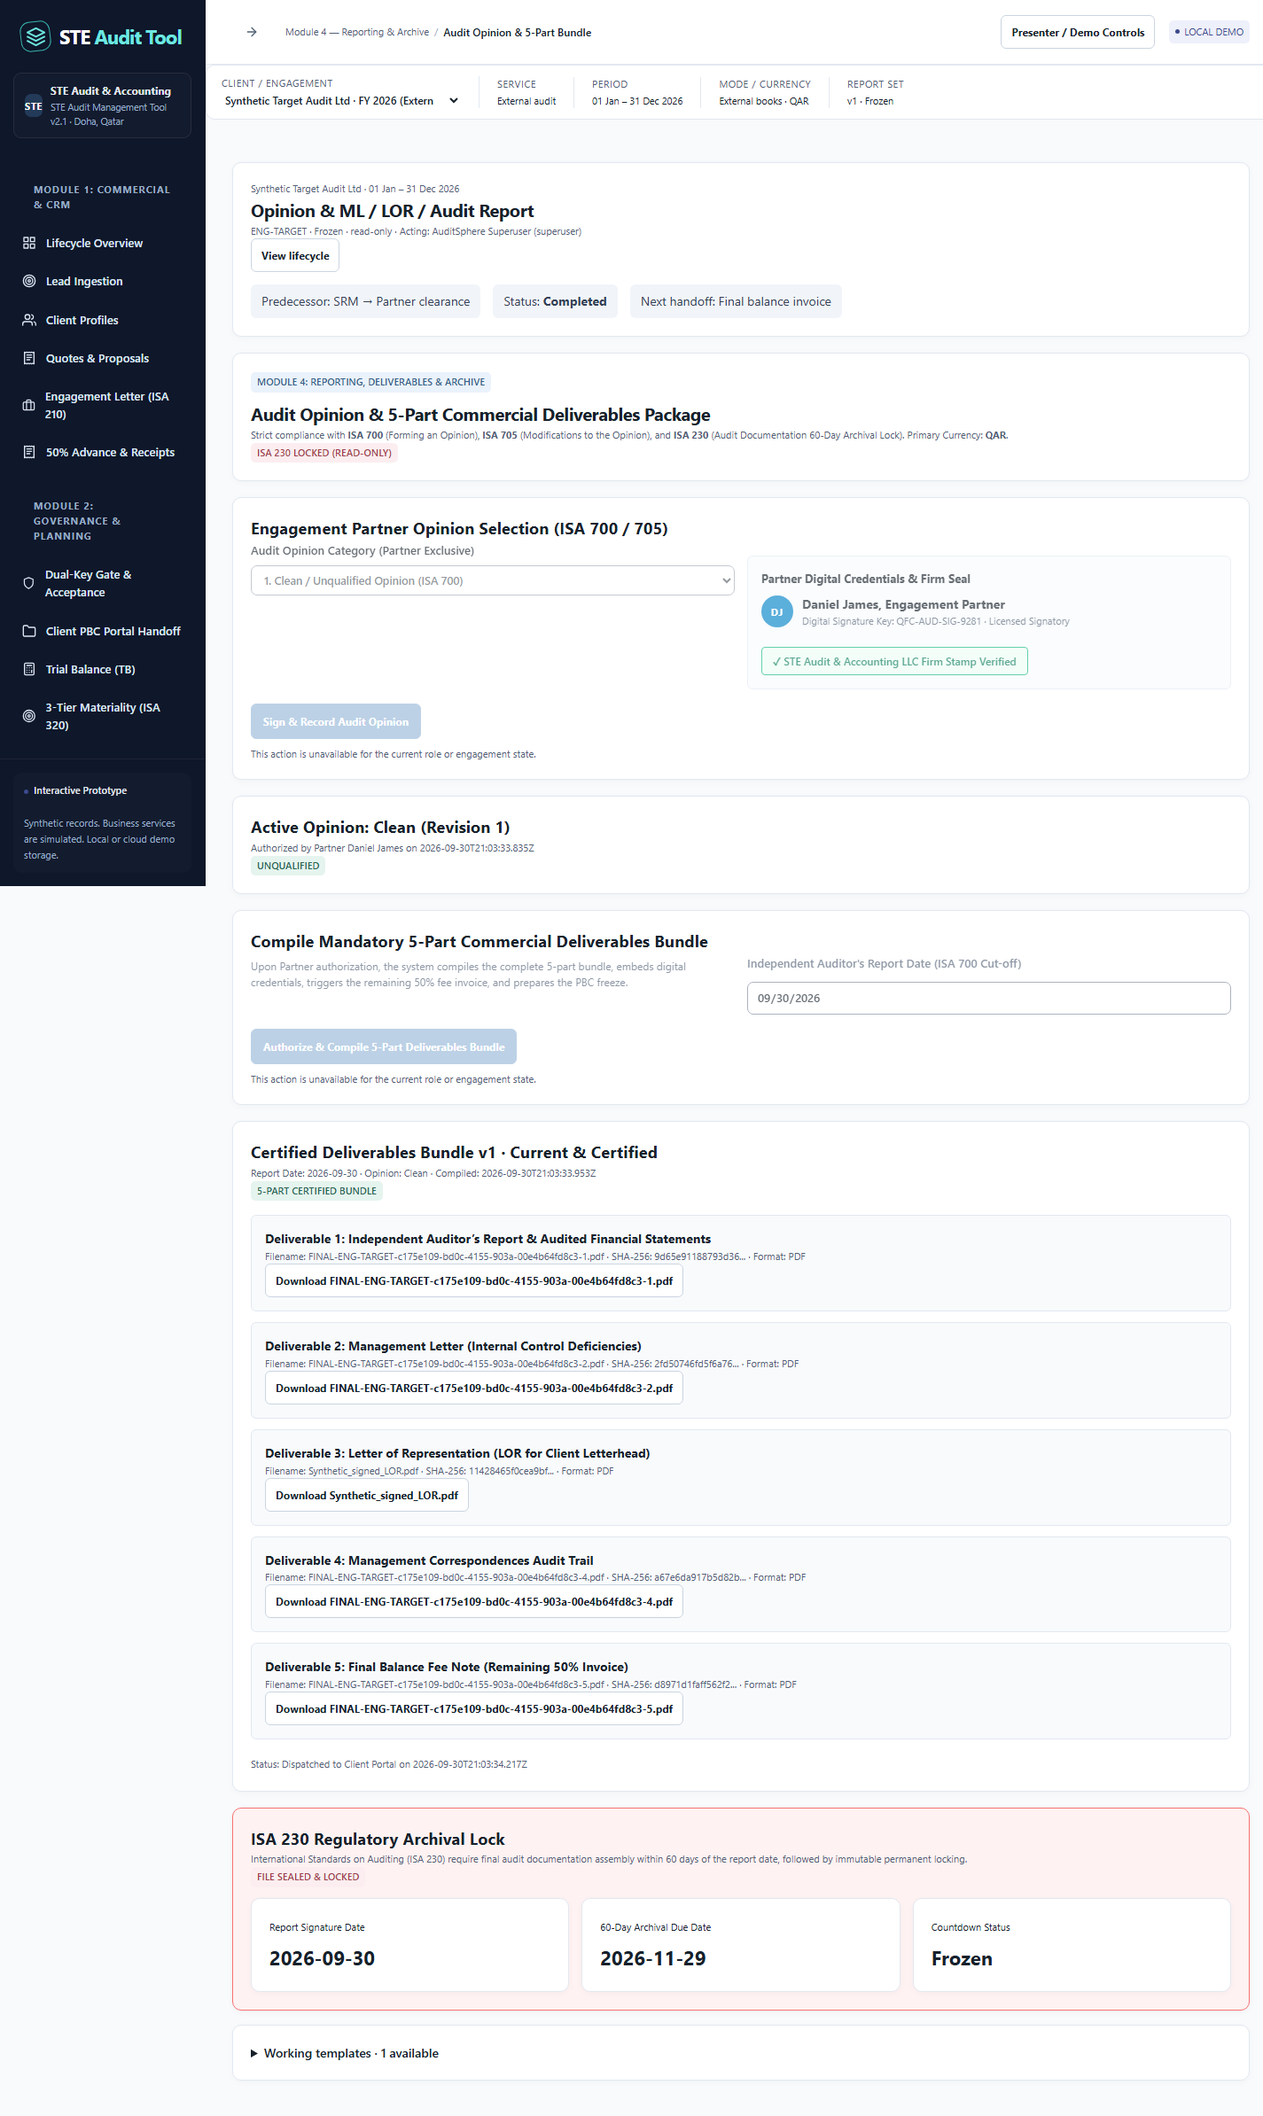
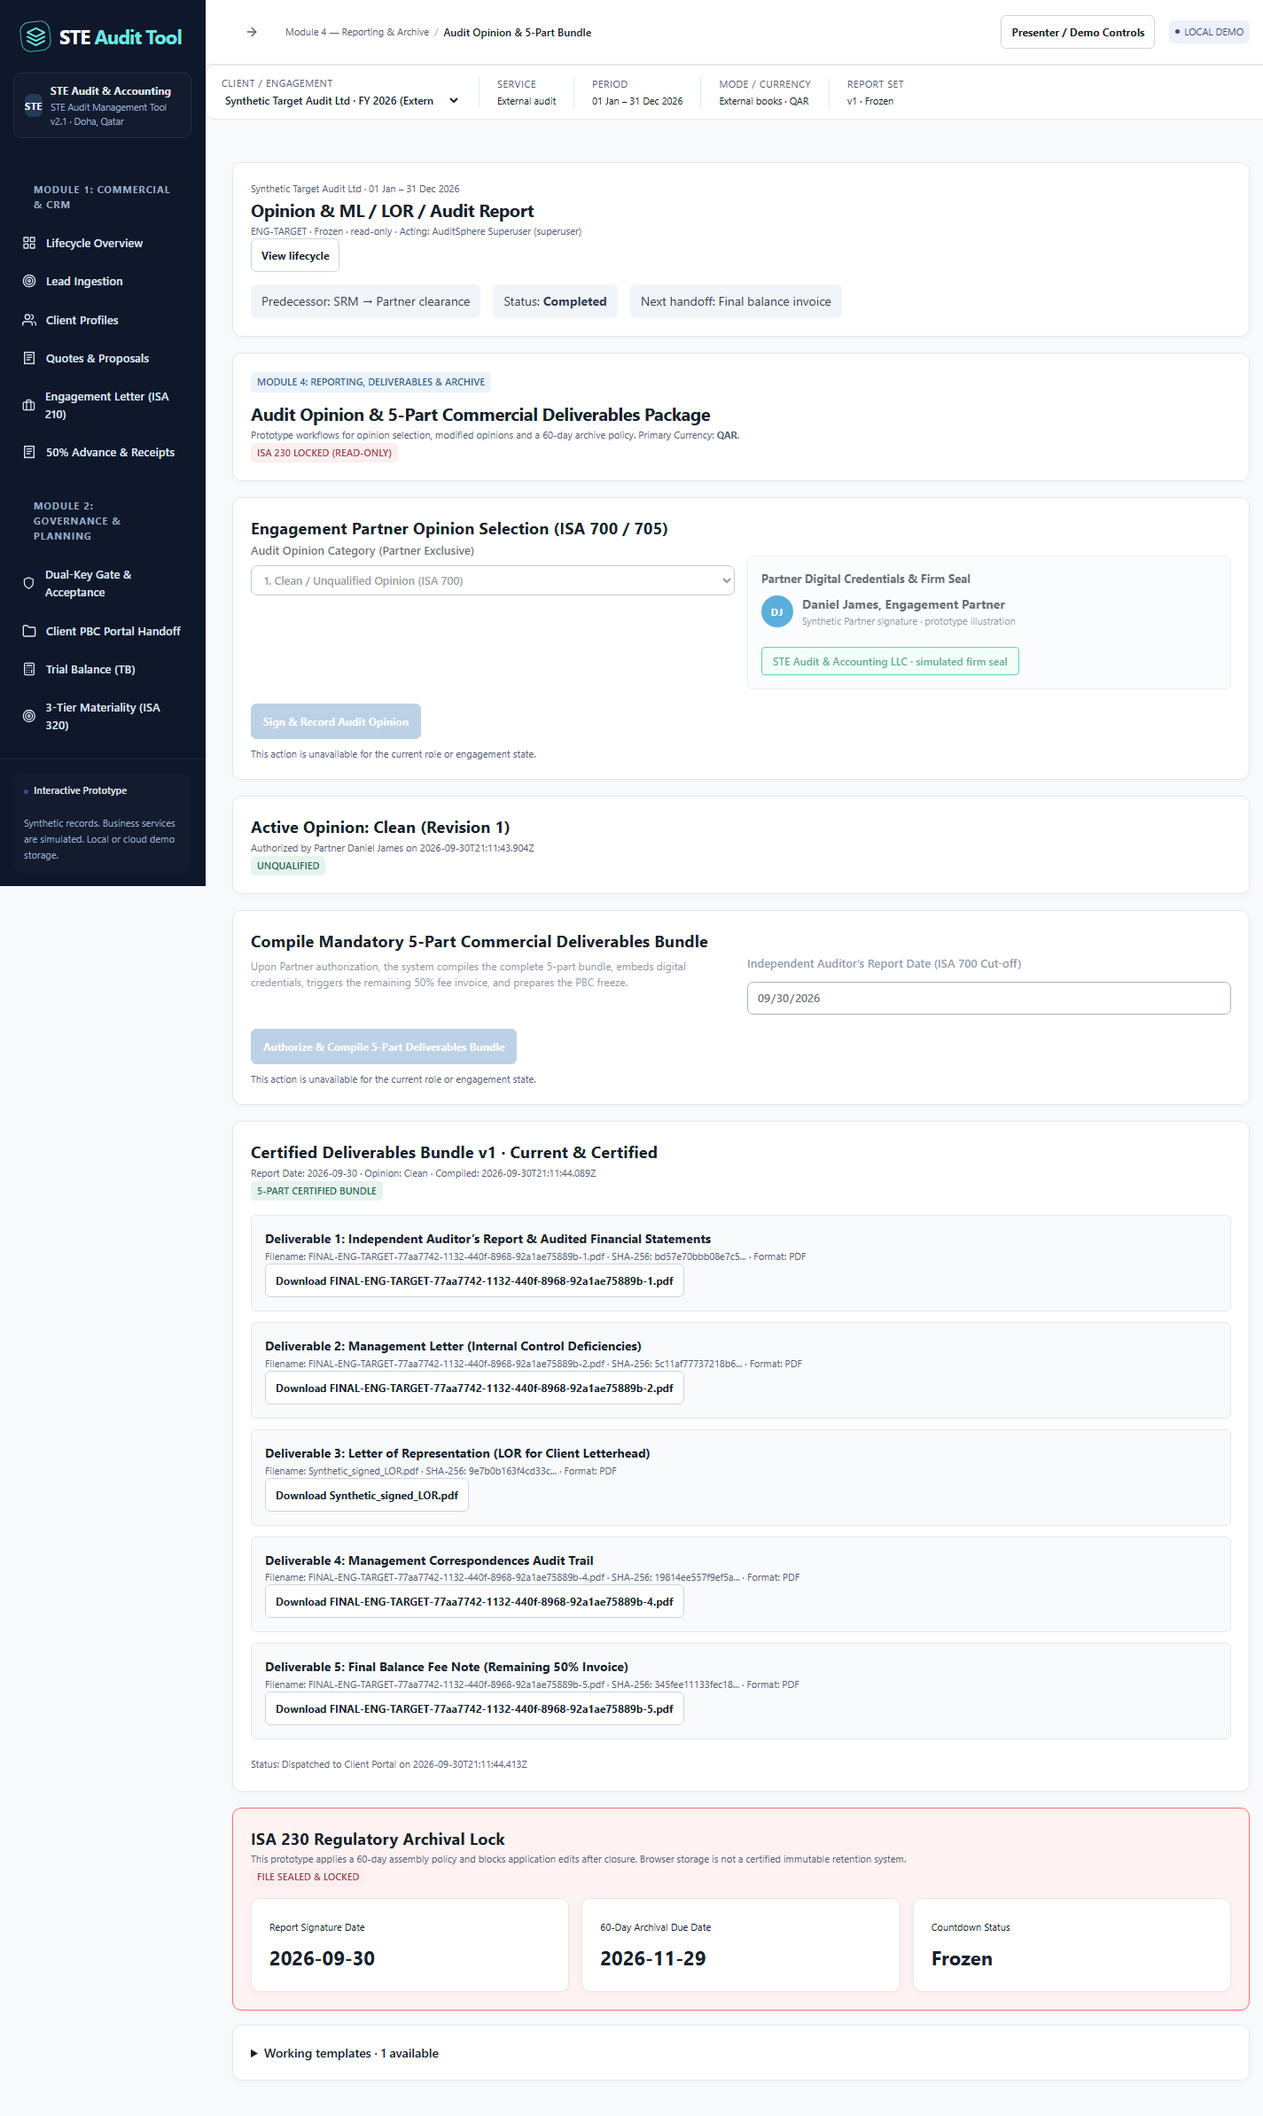
fix: verify reporting handovers and recover scenario replacement

diff --git a/tests/e2e/targetLifecycle.test.ts b/tests/e2e/targetLifecycle.test.ts
@@ -95,6 +95,47 @@ after(async () => {
     }
   if (profile) rmSync(profile, { recursive: true, force: true, maxRetries: 20, retryDelay: 100 });
 });
+it('visible Partner reporting flow retains signed LOR and releases the exact five-file bundle', async () => {
+  const result=await tab.evaluate<any>(`import('/tests/helpers/targetJourney.ts').then(m=>m.runTargetJourney({stopBeforePartner:true}))`);
+  await tab.evaluate(`(()=>{const f=document.querySelector('[data-target-form="partner-clearance"]');f.querySelector('[name="notes"]').value='Current SRM and audited evidence independently evaluated for final reporting.';f.requestSubmit()})()`);await sleep(150);
+  await tab.evaluate(`location.hash='delivery'`);await sleep(150);
+  await tab.evaluate(`document.querySelector('[data-target-form="opinion"]').requestSubmit()`);await sleep(150);
+  assert.equal(await tab.evaluate<boolean>(`document.body.innerText.includes('Synthetic Partner signature') && !document.body.innerText.includes('QFC-AUD-SIG-9281')`),true);
+  await tab.evaluate(`document.querySelector('[data-target-form="deliverables"]').requestSubmit()`);
+  const inspect=`import('/src/store/prototypeStore.ts').then(({prototypeStore:s})=>s.getSnapshot().engagements.find(e=>e.id===${JSON.stringify(result.engagementId)}).auditLifecycle)`;
+  let lifecycle:any;
+  for(let n=0;n<100;n++){lifecycle=await tab.evaluate(inspect);if(lifecycle.deliverables.length===1)break;await sleep(100);}
+  assert.equal(lifecycle.deliverables[0].artifacts.length,5);assert.equal(lifecycle.deliverables[0].deliveredAt,undefined);
+  await tab.evaluate(`import('/src/services/exportService.ts').then(m=>{const file=new File([m.createPDFBlob('Synthetic executive-signed LOR',['Synthetic fixture only; Managing Director and Finance Executive signatures.'])],'signed-lor.pdf',{type:'application/pdf'});const transfer=new DataTransfer();transfer.items.add(file);const f=document.querySelector('[data-target-form="signed-lor"]');f.querySelector('[name="signedLor"]').files=transfer.files;f.querySelector('[name="executive"]').value='Demo Managing Director';f.querySelector('[name="financeExecutive"]').value='Demo CFO';f.querySelector('[name="inspection"]').value='Synthetic executive signature inspection against this current bundle.';f.requestSubmit()})`);
+  for(let n=0;n<100;n++){lifecycle=await tab.evaluate(inspect);if(lifecycle.signedRepresentations?.length===1)break;await sleep(100);}
+  assert.equal(lifecycle.signedRepresentations.length,1);
+  await tab.evaluate(`Array.from(document.querySelectorAll('button')).find(b=>b.textContent.includes('Release Bundle to Client Portal')).click()`);
+  await sleep(150);lifecycle=await tab.evaluate(inspect);assert.ok(lifecycle.deliverables[0].deliveredAt);
+  assert.equal(lifecycle.signedRepresentations[0].deliverableSetId,lifecycle.deliverables[0].id);
+  await tab.evaluate(`import('/src/store/prototypeStore.ts').then(({prototypeStore:s})=>s.setPersona('client_finance'))`);
+  await tab.evaluate(`location.hash='portal'`);await sleep(150);
+  await tab.evaluate(`Array.from(document.querySelectorAll('button')).find(b=>b.textContent.includes('4. Final Certified Deliverables')).click()`);await sleep(100);
+  assert.equal(await tab.evaluate<number>(`document.querySelectorAll('[data-testid="client-release-set"]').length`),1);
+}, {timeout:60000});
+it('critical confirmation transitions through visible forms automatically issue one verified Holding Letter', async () => {
+  const result=await tab.evaluate<any>(`import('/tests/helpers/targetJourney.ts').then(m=>m.runTargetJourney({stopAtFieldwork:true}))`);
+  await tab.evaluate(`location.hash='confirmations'`);await sleep(150);
+  await tab.evaluate(`(()=>{const f=document.querySelector('[data-target-form="confirmation"]');f.querySelector('[name="counterparty"]').value='Synthetic Confirmation Bank';f.requestSubmit()})()`);
+  await sleep(150);
+  for(const status of ['Requested','Awaiting']){
+    await tab.evaluate(`(()=>{const f=Array.from(document.querySelectorAll('form')).find(f=>f.textContent.includes('Update confirmation: Synthetic Confirmation Bank'));f.querySelector('[name="status"]').value=${JSON.stringify(status)};f.querySelector('[name="note"]').value='Bank confirmation requested and followed up against the current cash balance.';f.requestSubmit()})()`);
+    await sleep(200);
+  }
+  const inspect=`import('/src/store/prototypeStore.ts').then(async({prototypeStore:s})=>{const state=s.getSnapshot(),e=state.engagements.find(e=>e.id===${JSON.stringify(result.engagementId)});const {criticalConfirmationBlockers}=await import('/src/services/targetLifecycle.ts');return {letters:e.auditLifecycle.holdingLetters||[],blockers:criticalConfirmationBlockers(state,e)}})`;
+  let completed:any;
+  for(let n=0;n<100;n++){completed=await tab.evaluate(inspect);if(completed.letters.length===1)break;await sleep(100);}
+  assert.equal(completed.letters.length,1);assert.ok(completed.blockers.length>0);
+  assert.equal(await tab.evaluate<boolean>(`import('/src/services/artifactStore.ts').then(async m=>(await (await m.loadVerifiedArtifact(${JSON.stringify(completed.letters[0].artifact)})).text()).startsWith('%PDF-'))`),true);
+  await tab.command('Page.reload');
+  for(let n=0;n<100;n++){if(await tab.evaluate<boolean>('!!document.querySelector(".sidebar")'))break;await sleep(100);}
+  assert.equal((await tab.evaluate<any>(inspect)).letters.length,1);
+  assert.equal(await tab.evaluate(`import('/src/store/prototypeStore.ts').then(({prototypeStore:s})=>s.loadError)`),null);
+}, {timeout:60000});
 it('two real browser tabs preserve independent procedure edits after reload', async () => {
   const result=await tab.evaluate<any>(`import('/tests/helpers/targetJourney.ts').then(m=>m.runTargetJourney({stopAtFieldwork:true}))`);
   const port=readFileSync(join(profile,'DevToolsActivePort'),'utf8').split('\n')[0];

diff --git a/src/components/target/OpinionDeliverablesView.tsx b/src/components/target/OpinionDeliverablesView.tsx
@@ -60,8 +60,7 @@ export function OpinionDeliverablesView(props: TargetViewProps) {
             <span className="tag blue mb8">MODULE 4: REPORTING, DELIVERABLES & ARCHIVE</span>
             <h2>Audit Opinion & 5-Part Commercial Deliverables Package</h2>
             <p className="caption">
-              Strict compliance with <strong>ISA 700</strong> (Forming an Opinion), <strong>ISA 705</strong> (Modifications to the Opinion), 
-              and <strong>ISA 230</strong> (Audit Documentation 60-Day Archival Lock). Primary Currency: <strong>QAR</strong>.
+              Prototype workflows for opinion selection, modified opinions and a 60-day archive policy. Primary Currency: <strong>QAR</strong>.
             </p>
           </div>
           <div className="text-right">
@@ -121,13 +120,14 @@ export function OpinionDeliverablesView(props: TargetViewProps) {
               ISA 705 requires an explicit Basis for Modification paragraph describing the specific quantitative and qualitative matters.
             </p>
 
-            <Field label="Affected Financial Statement Line Item (FSLI)" name="focus" defaultValue={selectedFsli || availableFslis[0]}>
+            <label className="target-field"><span>Affected Financial Statement Line Item (FSLI)</span>
+            <select name="focus" value={selectedFsli || availableFslis[0]} onChange={e => setSelectedFsli(e.target.value)}>
               {availableFslis.map((line) => (
                 <option key={line} value={line}>
                   {line}
                 </option>
               ))}
-            </Field>
+            </select></label>
 
             <label className="target-field mt12">
               <span>Quantitative / Qualitative Rationale (min 20 characters, injected into report)</span>
@@ -164,11 +164,11 @@ export function OpinionDeliverablesView(props: TargetViewProps) {
               </div>
               <div>
                 <strong>{eng.partner || 'Daniel James'}, Engagement Partner</strong>
-                <p className="caption">Digital Signature Key: QFC-AUD-SIG-9281 · Licensed Signatory</p>
+                <p className="caption">Synthetic Partner signature · prototype illustration</p>
               </div>
             </div>
             <div style={{ padding: '6px 12px', background: '#ecfdf5', border: '1px solid #10b981', borderRadius: 4, color: '#047857', fontWeight: 600, fontSize: '12px' }}>
-              ✓ STE Audit &amp; Accounting LLC Firm Stamp Verified
+              STE Audit &amp; Accounting LLC · simulated firm seal
             </div>
           </div>
         </div>
@@ -310,7 +310,7 @@ export function OpinionDeliverablesView(props: TargetViewProps) {
           <div>
             <h3>ISA 230 Regulatory Archival Lock</h3>
             <p className="caption">
-              International Standards on Auditing (ISA 230) require final audit documentation assembly within 60 days of the report date, followed by immutable permanent locking.
+              This prototype applies a 60-day assembly policy and blocks application edits after closure. Browser storage is not a certified immutable retention system.
             </p>
           </div>
           <span className={`tag ${frozen ? 'red' : 'green'}`}>

diff --git a/src/store/prototypeStore.ts b/src/store/prototypeStore.ts
@@ -76,6 +76,7 @@ class PrototypeStore {
   private storageConflict = false;
   private persistedBase: PrototypeState;
   private previousPersistedBase?: PrototypeState;
+  private replacingWorkspace = false;
   private packaging = new Set<string>();
   private packageExpiredArchives() {
     if (typeof indexedDB === 'undefined') return;
@@ -211,11 +212,12 @@ class PrototypeStore {
     if (this.isSessionOnly || this.storageConflict) return;
     try {
       const latest = localStorage.getItem(STORAGE_KEY);
-      if (latest && latest !== JSON.stringify(this.persistedBase)) {
+      if (!this.replacingWorkspace && latest && latest !== JSON.stringify(this.persistedBase)) {
         try { this.state = mergeIndependentEdits(this.persistedBase, this.state, JSON.parse(latest)); }
         catch { this.storageConflict = true; markStateStale(this.state, true); return; }
       }
       localStorage.setItem(STORAGE_KEY, JSON.stringify(this.state));
+      this.replacingWorkspace = false;
       this.previousPersistedBase = this.persistedBase;
       this.persistedBase = structuredClone(this.state);
     } catch (e) {
@@ -5688,13 +5690,27 @@ class PrototypeStore {
   }
 
   // --- Scenario & State Reset (VP-004) ---
+  private beginWorkspaceReplacement() {
+    // Explicit replacement is a new workspace, not a merge of business edits.
+    // Use the actual saved payload as its baseline, including pre-migration data.
+    try {
+      const raw = typeof localStorage !== 'undefined' ? localStorage.getItem(STORAGE_KEY) : null;
+      if (raw) this.persistedBase = JSON.parse(raw);
+    } catch { /* A reset also recovers an unreadable saved payload. */ }
+    this.previousPersistedBase = undefined;
+    this.replacingWorkspace = true;
+    this.loadError = null;
+    this.storageConflict = false;
+  }
   public loadScenario(name: ScenarioName) {
+    this.beginWorkspaceReplacement();
     this.state = loadScenarioState(name);
     this.logEvent(`Loaded scenario preset: ${name}`, 'SYS');
     this.notify();
   }
 
   public resetState() {
+    this.beginWorkspaceReplacement();
     this.state = loadScenarioState('target-lifecycle');
     this.loadError = null;
     this.storageConflict = false;

diff --git a/tests/helpers/targetJourney.ts b/tests/helpers/targetJourney.ts
@@ -15,7 +15,7 @@ import {
   targetReleaseBlockers
 } from '../../src/services/targetLifecycle';
 import { calculateBalanceSheet, calculateIncomeStatement } from '../../src/services/calculations';
-export async function runTargetJourney(options: { stopAtFieldwork?: boolean; stopBeforeAdvance?: boolean; stopBeforeManager?: boolean } = {}) {
+export async function runTargetJourney(options: { stopAtFieldwork?: boolean; stopBeforeAdvance?: boolean; stopBeforeManager?: boolean; stopBeforePartner?: boolean } = {}) {
   const baseline = createInitialState();
   store.loadScenario('target-lifecycle');
   let s = (store as any).state as ReturnType<typeof store.getSnapshot>; // Read current records; all journey writes use store commands.
@@ -518,6 +518,7 @@ export async function runTargetJourney(options: { stopAtFieldwork?: boolean; sto
     throw Error('Current SRM became stale during reload normalization.');
   mark('Preparer ready → Manager return → revision → Manager clearance → genuine SRM');
   act('partner');
+  if (options.stopBeforePartner) { await route('reviews'); return {engagementId:e.id,checkpoints}; }
   store.lifecycle.clearPartner(
     e.id,
     'Current SRM and source basis independently assessed and cleared.'

diff --git a/tests/unit/terminalStateInventory.test.ts b/tests/unit/terminalStateInventory.test.ts
@@ -34,7 +34,7 @@ const INVENTORY: Record<Family, string[]> = {
   billing: ['addInvoice', 'cancelInvoiceDraft', 'reviseInvoiceDraft', 'reviewInvoice', 'issueInvoice', 'addCreditNote', 'reviewCreditNote', 'reviseCreditNote', 'issueCreditNote', 'addReceipt', 'allocateReceipt', 'reverseAllocation'],
   records: ['linkDocumentToTask', 'unlinkDocumentFromTask', 'setDocumentClientSharing', 'archiveEngagement', 'recordArchiveHandover'],
   setup: ['updateM365Config', 'simulateM365Verification', 'simulateM365Disconnect', 'prepareClientWorkspace', 'saveAcceptanceCase', 'decideAcceptanceCase'],
-  recovery: ['loadScenario', 'resetState', 'exportStateJSON', 'importStateJSON', 'checkIntegrity'],
+  recovery: ['beginWorkspaceReplacement', 'loadScenario', 'resetState', 'exportStateJSON', 'importStateJSON', 'checkIntegrity'],
   professional: ['signOffAnalyticalReview',
     'addJob', 'updateJob', 'addTask', 'updateTask', 'reassignTask', 'applyJobTemplate',
     'addComment', 'moderateComment', 'editComment',

diff --git a/src/components/target/FreezeArchiveView.tsx b/src/components/target/FreezeArchiveView.tsx
@@ -62,7 +62,7 @@ export function FreezeArchiveView(props: TargetViewProps) {
         <section className="panel panel-pad borderbox" style={{ background: '#f8fafc', border: '1px solid #cbd5e1' }}>
           <h4>Lead Partner Immediate Archival Seal (Early Lock Command)</h4>
           <p className="caption mt4">
-            Under ISA 230 / STE policy, the Lead Audit Partner may execute an immediate manual freeze prior to the 60-day statutory expiry.
+            The assigned Partner may apply this prototype's early archive policy before the 60-day due date.
           </p>
           <ActionButton action={() => prototypeStore.lifecycle.simulateFreeze(eng.id, state.asOfDate, true)}>
             Execute Partner Early Archival Lock Now

diff --git a/docs/prototype/legacy-lifecycle-review-resolution.md b/docs/prototype/legacy-lifecycle-review-resolution.md
@@ -2,6 +2,8 @@
 
 Review source: `AuditSphere_Requirements_Legacy_Lifecycle_Review_2ba177c.md`, reviewed baseline `2ba177c35ba649036db800c29dca41371fefb94b`. This change implements its F01–F22 remediation within the existing five-module synthetic prototype. The detailed STE v2.1 user stories supply the concrete presentation terminology. Document recommendations are implementation requirements, not authority to claim professional or client sign-off.
 
+On 2026-10-01 the user chose the newer “STE Audit Management Tool” page as the governing source and said its readable contents would be provided. Those contents are pending. The fallback v2.1 specification therefore does not establish final source fidelity or acceptance; concrete remediation against the attached review continues independently.
+
 ## Finding-by-finding changes
 
 | Finding | Implemented remediation | Evidence |
@@ -53,9 +55,12 @@ These checks are not forty independently executed RT01–RT40 user-acceptance jo
 
 - TypeScript/build and Worker type-check: passed.
 - Unit suite: 410 passed, 0 failed/skipped (follow-up on 2026-10-01).
-- Chrome suite: 11 passed, 0 failed/skipped, including cloud save/resume and verified ZIP inspection.
+- Chrome suite: 13 passed, 0 failed/skipped, including cloud save/resume and verified ZIP inspection.
 - Follow-up browser evidence: two actual tabs save distinct procedure edits concurrently and retain both after reload; visible payment failure/retry keeps one payment and generates a verified PDF receipt, exactly five folders and invitation; visible Manager clearance automatically generates the current verified PDF SRM.
 - Follow-up bundle format gate rejects text/Office formats for required PDF outputs; the representation letter may be PDF or DOCX.
+- Additional visible workflows: critical-confirmation transitions generate one verified Holding Letter and retain it after reload; Partner clearance, opinion selection, bundle compilation, signed-LOR upload and release publish exactly the current five-file set to the client portal. These start from command-created prerequisite fixtures and are not complete visible intake-to-archive journeys.
+- Reporting-screen credentials are explicitly synthetic; unsupported verified-stamp, fabricated signing-key and strict-compliance claims were removed. Modified-opinion preview now follows the selected FSLI.
+- Explicit scenario/reset recovery replaces the workspace without attempting to merge pre-migration or conflicting prior records; ordinary edits retain conflict checks. The combined browser suite exercises this following reload.
 - Completion audit remains open: the five source workflows have not all been executed end-to-end solely through visible role-appropriate actions, and no fresh agreed visual baseline or formal acceptance has been supplied. These follow-up checks do not establish those remaining acceptance conditions.
 - Responsive evidence: 96 route/width combinations; sidebar/shell non-overlap asserted at desktop widths including 960 and 1000 px.
 - Live Worker/D1 isolation and stale-revision rejection: 1 passed, 0 failed/skipped.
